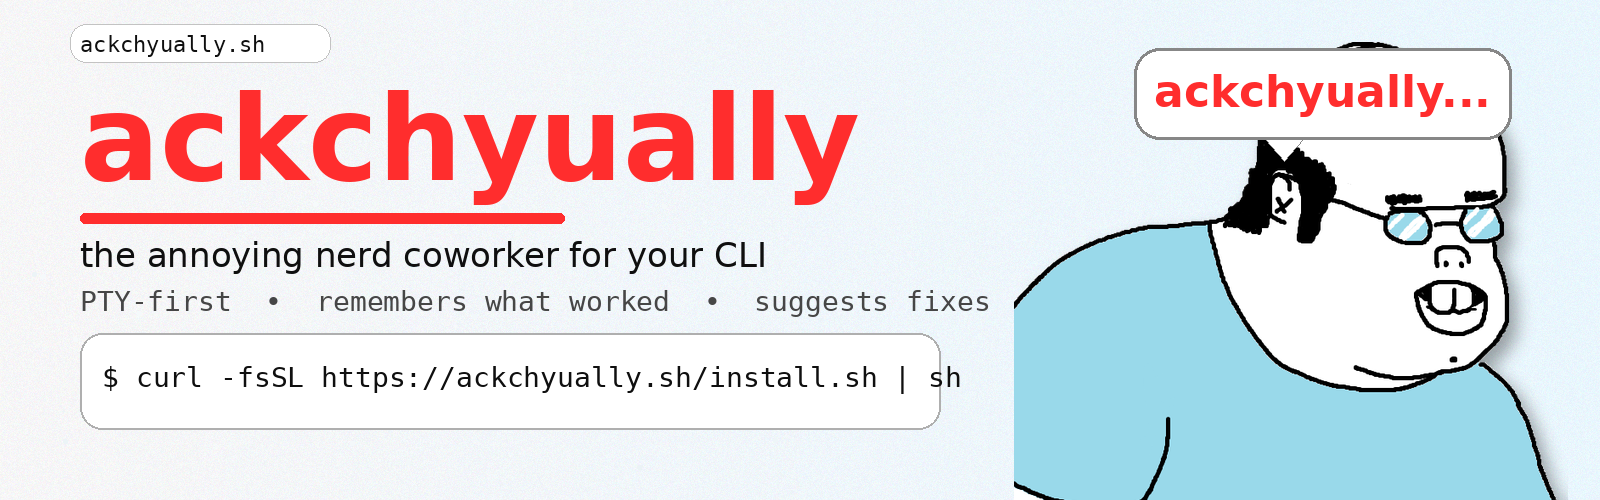
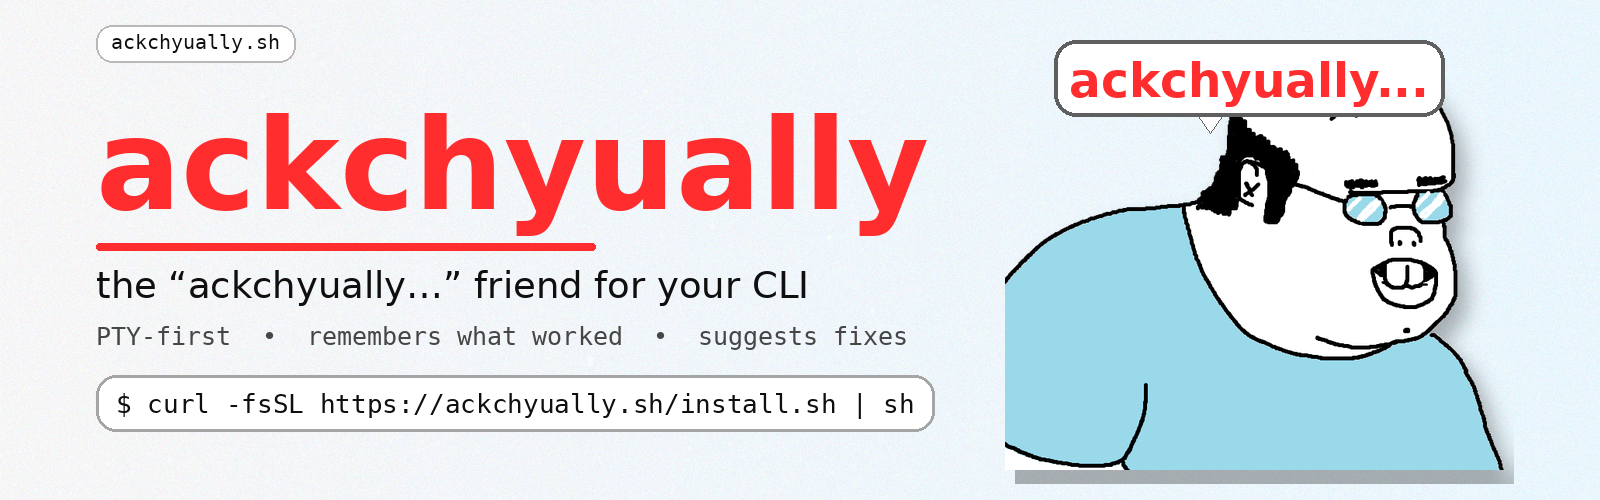
Branding: update tagline and hero images

Changed region(s): [[0.0312, 0.06, 1.0, 1.0], [0.0625, 0.72, 0.5938, 0.87], [0.0312, 0.03, 0.1875, 0.12]]

diff --git a/site/index.html b/site/index.html
@@ -6,7 +6,7 @@
     <title>ackchyually</title>
     <meta
       name="description"
-      content="The annoying nerd coworker for your CLI. PTY-first. Remembers what worked and suggests the right command."
+      content="the “ackchyually…” friend for your CLI. PTY-first. Remembers what worked and suggests the right command."
     />
     <link rel="canonical" href="https://ackchyually.sh/" />
     <link rel="icon" type="image/png" href="./assets/ackchyually_avatar_512.png" />
@@ -15,7 +15,7 @@
     <meta property="og:title" content="ackchyually" />
     <meta
       property="og:description"
-      content="The annoying nerd coworker for your CLI. PTY-first. Remembers what worked and suggests the right command."
+      content="the “ackchyually…” friend for your CLI. PTY-first. Remembers what worked and suggests the right command."
     />
     <meta property="og:url" content="https://ackchyually.sh/" />
     <meta property="og:image" content="https://ackchyually.sh/assets/ackchyually_social_1280x640.png" />
@@ -50,8 +50,8 @@
 
         <h1 class="title">ackchyually</h1>
         <p class="lede">
-          The annoying nerd coworker for your CLI. Remembers what worked (per repo). Suggests the right command when you get the
-          details wrong.
+          the “ackchyually…” friend for your CLI. Remembers what worked (per repo). Suggests the right command when you get the details
+          wrong.
         </p>
 
         <div class="cmd-card" aria-label="install">

diff --git a/README.md b/README.md
@@ -15,7 +15,7 @@
 ![Codecov](https://img.shields.io/codecov/c/github/joelklabo/ackchyually)
 ![Downloads](https://img.shields.io/github/downloads/joelklabo/ackchyually/total)
 
-The annoying nerd coworker for your CLI. Remembers what worked (per repo). Suggests the right command when you get the details wrong.
+**ackchyually** — the “ackchyually…” friend for your CLI. Remembers what worked (per repo). Suggests the right command when you get the details wrong.
 
 ## PTY-first (hard requirement)
 If you're in a TTY, ackchyually runs tools under a real PTY. This is non-negotiable for interactive CLIs and agent shells (Claude Code / Codex CLI / Copilot CLI).
